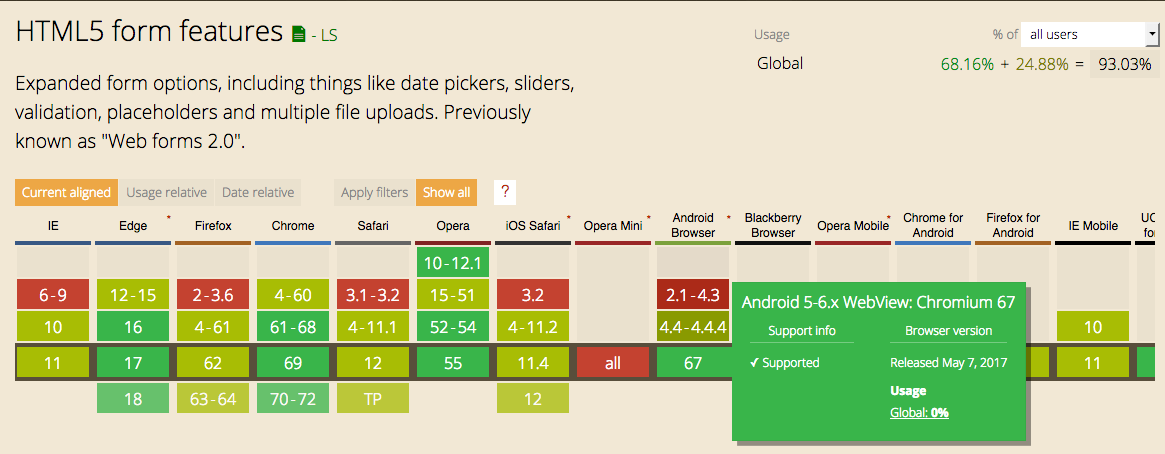
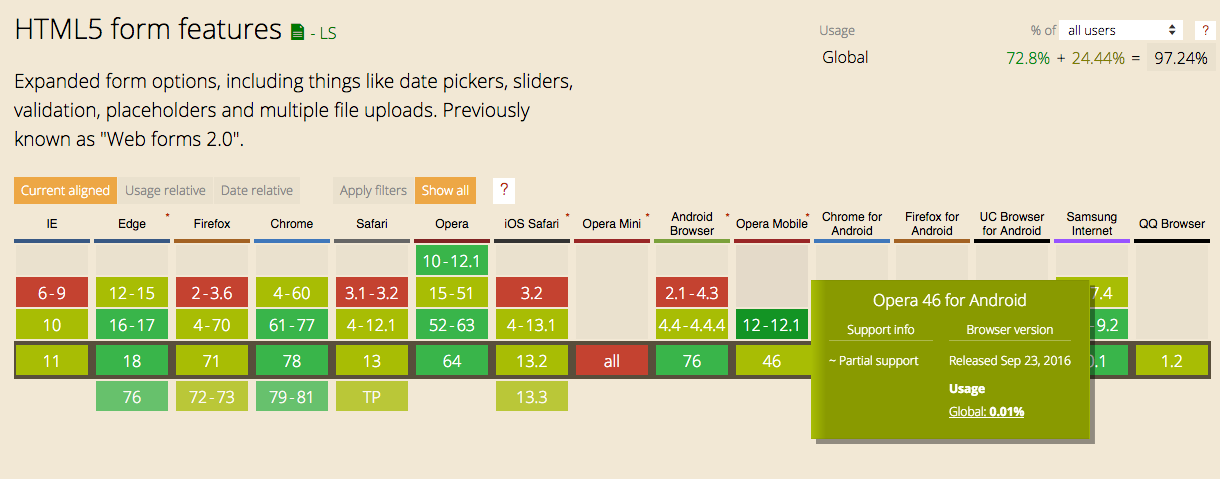
lecture 2 finalized

diff --git a/Lecture-design.md b/Lecture-design.md
@@ -265,7 +265,7 @@ As a concrete example, here is the browser support overview of HTML5 form featur
 
 ![HTML5 form support](img/L2-html5-form.png)
 
-<sup>Screenshot taken on October 11, 2019.</sup>
+<sup>Screenshot taken on December 16, 2019.</sup>
 
 We can thus easily find out which browser versions do (not) support these features or only partially support them. This enables application developers to make choices - depending on their target population (and the most popular browsers among the target population), certain HTML5 features should (not) be employed.
 
